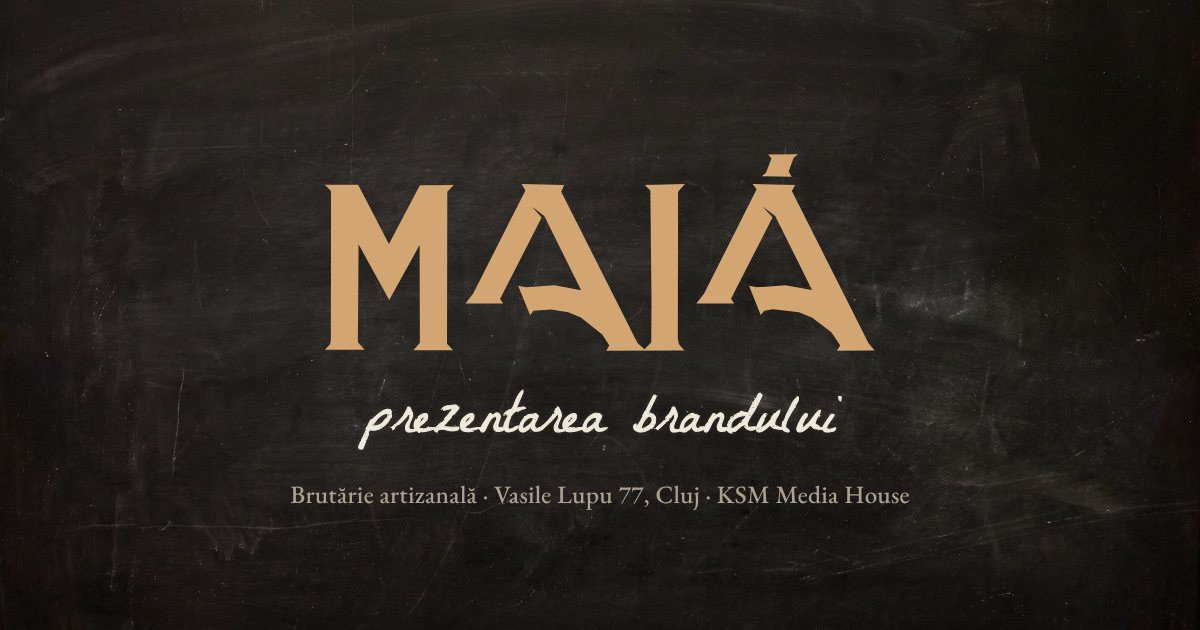
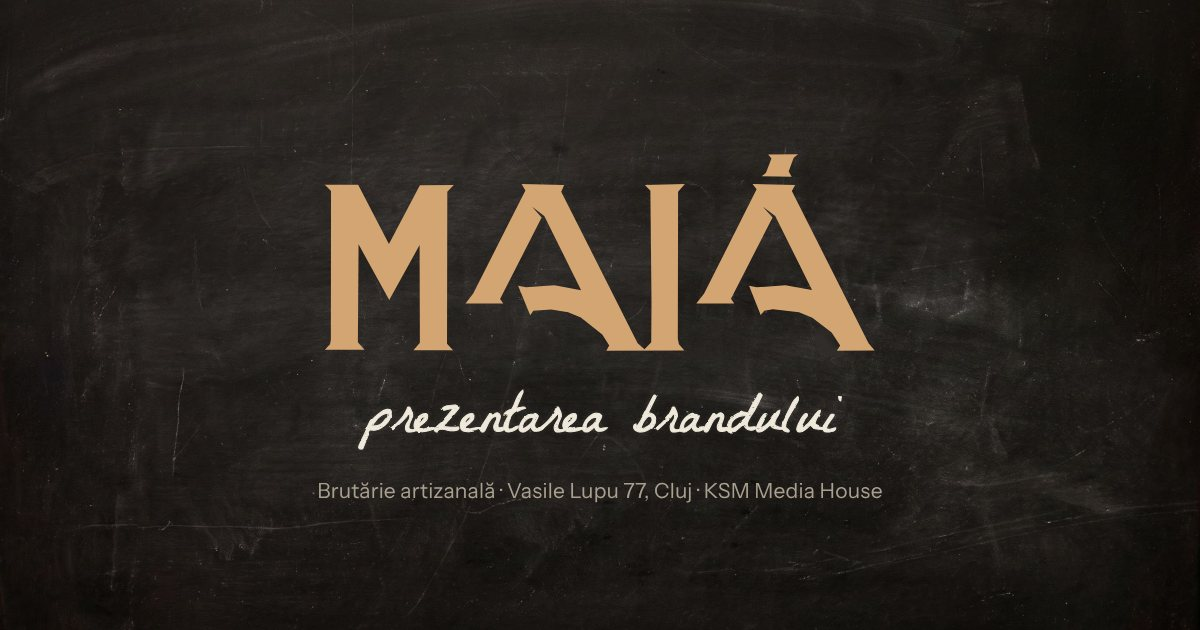
Maia brandbook: capitol Aplicații; thumbnailuri cu Instrument Sans
Claude-Session: https://claude.ai/code/session_01892xonWbYHQNDi6Rf6YRov

Changed region(s): [[0.2467, 0.754, 0.7708, 0.8143]]

diff --git a/maia/brandbook/index.html b/maia/brandbook/index.html
@@ -251,6 +251,58 @@ td{font-variant-numeric:tabular-nums}
 @media(max-width:860px){.voice{grid-template-columns:minmax(0,1fr)}}
 .lbl{font-size:14px;color:var(--mute);margin-bottom:10px}
 
+
+/* applications */
+.nb{white-space:nowrap}
+.apps-grid{display:grid;grid-template-columns:minmax(0,560px) minmax(0,1fr);gap:clamp(36px,6vw,96px);align-items:start}
+@media(max-width:900px){.apps-grid{grid-template-columns:minmax(0,1fr)}}
+.ig{display:grid;grid-template-columns:repeat(3,minmax(0,1fr));gap:4px;background:var(--creta)}
+.ig .t{position:relative;aspect-ratio:3/4;overflow:hidden;display:grid;place-items:center;text-align:center;padding:10%}
+.ig .t img{position:absolute;inset:0;width:100%;height:100%;object-fit:cover}
+.ig .t .lb{position:relative;font-family:var(--f-display);color:#F2ECE0;font-size:clamp(15px,1.6vw,21px);line-height:1.05;text-shadow:0 1px 14px rgba(0,0,0,.45)}
+.ig .t.dk{background:var(--tabla) url(https://bmarginean1.github.io/ksm-website/maia/img/tabla-bg.jpg) center/cover}
+.ig .t.lt{background:#E9E1D1;color:var(--tabla)}
+.ig .t.lt b{display:block;font:400 clamp(16px,1.7vw,22px)/1.05 var(--f-display)}
+.ig .t.lt small{display:block;margin-top:6px;font-size:12px;color:var(--mute-ink)}
+.ig .t .chalk{font-size:clamp(20px,2.2vw,30px)}
+.ig .t.dk img.logo{position:static;width:78%;height:auto;object-fit:contain}
+.ig .rc{position:absolute;top:8px;right:8px;width:14px;height:14px;border:1.5px solid #F2ECE0;border-radius:3px;z-index:2}
+.ig .rc::after{content:"";position:absolute;left:4px;top:2.5px;border-left:5px solid #F2ECE0;border-top:3.5px solid transparent;border-bottom:3.5px solid transparent}
+.phones{display:grid;grid-template-columns:repeat(3,minmax(0,1fr));gap:clamp(20px,4vw,64px);justify-items:center}
+.phones figure{width:100%;max-width:280px}
+.phones .ph{position:relative;aspect-ratio:9/16;border-radius:22px;overflow:hidden;background:var(--tabla);outline:1px solid var(--rule-ink,rgba(31,30,27,.16))}
+.phones .ph img.bg{position:absolute;inset:0;width:100%;height:100%;object-fit:cover}
+.phones .story img.bg{height:62%}
+.phones .story .pn{position:absolute;left:0;right:0;bottom:0;height:38%;background:var(--tabla) url(https://bmarginean1.github.io/ksm-website/maia/img/tabla-bg.jpg) center/cover;display:flex;flex-direction:column;align-items:center;justify-content:center;gap:6px;padding:0 8%;text-align:center;color:#F2ECE0}
+.phones .story .chalk{font-size:clamp(22px,2.2vw,30px)}
+.phones .story small{font-size:13px;color:#BDB4A3}
+.phones .story img.mk{width:30%;height:auto;margin-top:6px}
+.phones .cover .ov{position:absolute;left:8.33%;width:75%;top:25%;height:50%;display:grid;place-items:center;text-align:center}
+.phones .cover .ov b{font:400 clamp(26px,2.6vw,36px)/1.02 var(--f-display);color:#F2ECE0;text-shadow:0 2px 24px rgba(0,0,0,.55)}
+.phones .end{background:var(--tabla) url(https://bmarginean1.github.io/ksm-website/maia/img/tabla-bg.jpg) center/cover;display:flex;flex-direction:column;align-items:center;justify-content:center;gap:14px;color:#BDB4A3;font-size:13px}
+.phones .end img{width:66%;height:auto}
+.phones figcaption{margin-top:14px;font-size:15px}
+.phones figcaption span{display:block;color:var(--mute);font-size:13px}
+@media(max-width:760px){.phones{grid-template-columns:minmax(0,1fr)}}
+.pack{display:grid;grid-template-columns:repeat(4,minmax(0,1fr));gap:clamp(14px,2vw,24px)}
+@media(max-width:900px){.pack{grid-template-columns:repeat(2,minmax(0,1fr))}}
+.pack .it{aspect-ratio:4/5;display:grid;place-items:center;position:relative;overflow:hidden}
+.pack .bag{background:#DCCFB6}
+.pack .bag .b{width:62%;height:78%;background:#EDE5D6;position:relative;display:grid;place-items:center;box-shadow:inset 0 14px 0 #E2D8C5}
+.pack .bag .b::before{content:"";position:absolute;top:0;left:0;right:0;height:14px;background:repeating-linear-gradient(90deg,#E2D8C5 0 6px,#D8CCB6 6px 7px)}
+.pack .bag .b img{width:78%;height:auto}
+.pack .lab{background:#2B2823}
+.pack .lab .l{background:var(--tabla) url(https://bmarginean1.github.io/ksm-website/maia/img/tabla-bg.jpg) center/cover;width:74%;aspect-ratio:4/3;display:flex;flex-direction:column;justify-content:center;align-items:center;gap:4px;outline:1px solid rgba(242,236,224,.12)}
+.pack .lab .chalk{font-size:clamp(18px,1.8vw,24px)}
+.pack .stk{background:#EDE5D6}
+.pack .stk .s{width:60%;aspect-ratio:1;border-radius:50%;background:var(--tabla);display:grid;place-items:center;box-shadow:inset 0 0 0 5px var(--tabla),inset 0 0 0 6px rgba(211,165,115,.6)}
+.pack .stk .s img{width:66%;height:auto}
+.pack .wrp{background:#EDE5D6}
+.pack .wrp .pt{position:absolute;inset:0;display:grid;grid-template-columns:repeat(2,1fr);gap:0 22%;align-content:space-evenly;padding:0 14%;opacity:.14}
+.pack .wrp .pt img{width:100%;height:auto}
+.pack .wrp .pt img:nth-child(4n+3),.pack .wrp .pt img:nth-child(4n+4){transform:translateX(-30%)}
+.pack figcaption{margin-top:12px;font-size:15px}
+.pack figcaption span{display:block;color:var(--mute);font-size:13px}
 /* close */
 .close{background:var(--tabla) url(https://bmarginean1.github.io/ksm-website/maia/img/tabla-bg.jpg) center/cover;padding-block:clamp(90px,11vw,160px) calc(40px + env(safe-area-inset-bottom,0px))}
 .close .chalk{font-size:clamp(44px,5.4vw,80px)}
@@ -303,13 +355,13 @@ td{font-variant-numeric:tabular-nums}
 
 <header class="bar"><div class="wrap">
  <a class="mark" href="#top" aria-label="Maia, la început"><img src="https://bmarginean1.github.io/ksm-website/maia/img/maia.svg" alt="" width="815" height="297"></a>
- <nav aria-label="Principal"><a class="lnk" href="#logo">Logo</a><a class="lnk" href="#culoare">Culoare</a><a class="lnk" href="#litere">Litere</a><a class="lnk" href="#foto">Fotografie</a><a class="lnk" href="#voce">Voce</a><a class="btn" href="#cuprins" id="tocBtn" aria-controls="cuprins" aria-expanded="false">Cuprins</a></nav>
+ <nav aria-label="Principal"><a class="lnk" href="#logo">Logo</a><a class="lnk" href="#culoare">Culoare</a><a class="lnk" href="#litere">Litere</a><a class="lnk" href="#foto">Fotografie</a><a class="lnk" href="#aplicatii">Aplicații</a><a class="lnk" href="#voce">Voce</a><a class="btn" href="#cuprins" id="tocBtn" aria-controls="cuprins" aria-expanded="false">Cuprins</a></nav>
 </div></header>
 
 <nav class="toc" id="cuprins" aria-label="Cuprins"><div class="wrap">
  <a class="x btn" href="#top" id="tocX">Închide</a>
  <ol>
-  <li><a href="#logo">Logo</a></li><li><a href="#culoare">Culoare</a></li><li><a href="#litere">Litere</a></li><li><a href="#creta">Creta</a></li><li><a href="#foto">Fotografie</a></li><li><a href="#miscare">Mișcare</a></li><li><a href="#montaj">Montaj</a></li><li><a href="#postare">Postare</a></li><li><a href="#voce">Voce</a></li><li><a href="#reguli">Reguli fixe</a></li>
+  <li><a href="#logo">Logo</a></li><li><a href="#culoare">Culoare</a></li><li><a href="#litere">Litere</a></li><li><a href="#creta">Creta</a></li><li><a href="#foto">Fotografie</a></li><li><a href="#miscare">Mișcare</a></li><li><a href="#montaj">Montaj</a></li><li><a href="#postare">Postare</a></li><li><a href="#aplicatii">Aplicații</a></li><li><a href="#voce">Voce</a></li><li><a href="#reguli">Reguli fixe</a></li>
  </ol>
 </div></nav>
 
@@ -384,7 +436,7 @@ td{font-variant-numeric:tabular-nums}
   <div class="scale">
    <div><small>Titlu · Young Serif</small><span class="t1">Pâine Tartine</span></div>
    <div><small>Subtitlu · Young Serif</small><span class="t2">Cu semințe, din maia</span></div>
-   <div><small>Text · Instrument Sans</small><span class="t3">Scoatem prima tavă la 8:30. Îl iei cald sau nu-l mai prinzi.</span></div>
+   <div><small>Text · Instrument Sans</small><span class="t3">Scoatem prima tavă la 8:30. Îl iei cald sau <span class="nb">nu-l</span> mai prinzi.</span></div>
    <div><small>Notă · Instrument Sans</small><span class="t4">26 lei / 650 g. Nimic sub 13 px pe ecran.</span></div>
   </div>
  </div>
@@ -482,16 +534,59 @@ td{font-variant-numeric:tabular-nums}
  </div>
 </div></section>
 
-<section class="chap paper" id="voce" aria-labelledby="h-voce"><div class="wrap">
+<section class="chap paper" id="aplicatii" aria-labelledby="h-apl"><div class="wrap">
  <header class="ch-head">
   <p class="num">9</p>
+  <div class="ttl"><h2 id="h-apl" class="ext">Aplicații</h2><div class="chalk note wr" data-t="așa arată, pus în practică"><i>așa arată, pus în practică</i></div></div>
+  <p class="lead">Regulile de mai sus, puse pe telefon și pe tejghea. Toate pozele sunt de la prima filmare.</p>
+ </header>
+ <div class="apps-grid">
+  <div class="ig" role="img" aria-label="Grila de Instagram: nouă postări, alternând poze, tablă și hârtie">
+   <div class="t zoom"><img src="https://bmarginean1.github.io/ksm-website/maia/img/f-028.jpg" alt="" loading="lazy" style="object-position:40% center"><span class="rc"></span><span class="lb">Country Bread</span></div>
+   <div class="t lt"><div><b>Pâine Tartine</b><small>26 lei / 650 g</small></div></div>
+   <div class="t zoom"><img src="https://bmarginean1.github.io/ksm-website/maia/img/f-094.jpg" alt="" loading="lazy"></div>
+   <div class="t dk"><span class="chalk wr" data-t="ultima tavă"><i>ultima tavă</i></span></div>
+   <div class="t zoom"><img src="https://bmarginean1.github.io/ksm-website/maia/img/f-003.jpg" alt="" loading="lazy" style="object-position:55% center"><span class="rc"></span><span class="lb">Din cuptor</span></div>
+   <div class="t zoom"><img src="https://bmarginean1.github.io/ksm-website/maia/img/f-061.jpg" alt="" loading="lazy"></div>
+   <div class="t lt"><div><b>Îl iei cald sau <span class="nb">nu-l</span> mai prinzi.</b></div></div>
+   <div class="t zoom"><img src="https://bmarginean1.github.io/ksm-website/maia/img/f-092.jpg" alt="" loading="lazy"><span class="rc"></span><span class="lb">Croissant</span></div>
+   <div class="t dk"><img class="logo" src="https://bmarginean1.github.io/ksm-website/maia/img/maia.svg" alt="" loading="lazy"></div>
+  </div>
+  <div>
+   <h3 class="sub">Grila de Instagram</h3>
+   <dl class="rows "><div><dt>Ritm</dt><dd>Reel, foto, reel. Alternăm închis și deschis, ca să nu stea două întunecate una lângă alta.</dd></div><div><dt>Copertă</dt><dd>Un produs, cel mult trei cuvinte, în Young Serif, între y 480 și 1440.</dd></div><div><dt>Tablă</dt><dd>Un pătrat de tablă cu un rând de cretă la fiecare trei postări.</dd></div><div><dt>Hârtie</dt><dd>Un preț sau o frază scurtă, pe crem, fără poză.</dd></div><div><dt>Logo</dt><dd>MAIÁ apare singur cel mult o dată la nouă postări.</dd></div></dl>
+   <p class="cap">Semnul din colț marchează un reel.</p>
+  </div>
+ </div>
+ <div class="block">
+  <h3 class="sub">Story, copertă de reel, final</h3>
+  <div class="phones">
+   <figure><div class="ph story"><img class="bg" src="https://bmarginean1.github.io/ksm-website/maia/img/f-092.jpg" alt="Croissante pe blat" loading="lazy"><div class="pn"><span class="chalk wr" data-t="azi, din cuptor"><i>azi, din cuptor</i></span><small>Croissant · 17 lei</small><img class="mk" src="https://bmarginean1.github.io/ksm-website/maia/img/maia.svg" alt="" loading="lazy"></div></div><figcaption>Story zilnic<span>Poza sus, tabla jos: ce a ieșit și cât costă.</span></figcaption></figure>
+   <figure><div class="ph cover zoom"><img class="bg" src="https://bmarginean1.github.io/ksm-website/maia/img/f-078.jpg" alt="Aluatul răsturnat pe blat" loading="lazy"><div class="ov"><b>Ultima tavă</b></div></div><figcaption>Copertă de reel<span>Cel mai bun cadru, un titlu, în zona sigură.</span></figcaption></figure>
+   <figure><div class="ph end"><img src="https://bmarginean1.github.io/ksm-website/maia/img/maia.svg" alt="MAIÁ auriu pe tablă" loading="lazy"><span>Vasile Lupu 77, Cluj</span></div><figcaption>Cadrul de final<span>O secundă și jumătate, la fiecare reel.</span></figcaption></figure>
+  </div>
+ </div>
+ <div class="block">
+  <h3 class="sub">Ambalaj și tejghea</h3>
+  <div class="pack">
+   <figure><div class="it bag"><div class="b"><img src="https://bmarginean1.github.io/ksm-website/maia/img/logo-complet.svg" alt="Logo-ul complet pe punga de hârtie" loading="lazy"></div></div><figcaption>Punga<span>Logo-ul complet, în culorile originale.</span></figcaption></figure>
+   <figure><div class="it lab"><div class="l"><span class="chalk wr" data-t="Pâine Tartine"><i>Pâine Tartine</i></span><span class="chalk wr" data-t="26 lei / 650 g"><i>26 lei / 650 g</i></span></div></div><figcaption>Eticheta de preț<span>Tablă mică, scrisă de mână, ca pe lăzi.</span></figcaption></figure>
+   <figure><div class="it stk"><div class="s"><img src="https://bmarginean1.github.io/ksm-website/maia/img/maia.svg" alt="Sticker rotund MAIÁ" loading="lazy"></div></div><figcaption>Sticker<span>Rotund, 5 cm, închide punga.</span></figcaption></figure>
+   <figure><div class="it wrp"><div class="pt"><img src="https://bmarginean1.github.io/ksm-website/maia/img/maia-negru.svg" alt="" loading="lazy"><img src="https://bmarginean1.github.io/ksm-website/maia/img/maia-negru.svg" alt="" loading="lazy"><img src="https://bmarginean1.github.io/ksm-website/maia/img/maia-negru.svg" alt="" loading="lazy"><img src="https://bmarginean1.github.io/ksm-website/maia/img/maia-negru.svg" alt="" loading="lazy"><img src="https://bmarginean1.github.io/ksm-website/maia/img/maia-negru.svg" alt="" loading="lazy"><img src="https://bmarginean1.github.io/ksm-website/maia/img/maia-negru.svg" alt="" loading="lazy"><img src="https://bmarginean1.github.io/ksm-website/maia/img/maia-negru.svg" alt="" loading="lazy"><img src="https://bmarginean1.github.io/ksm-website/maia/img/maia-negru.svg" alt="" loading="lazy"></div></div><figcaption>Hârtia de împachetat<span>MAIÁ negru, repetat rar, aproape șters.</span></figcaption></figure>
+  </div>
+ </div>
+</div></section>
+
+<section class="chap" id="voce" aria-labelledby="h-voce"><div class="wrap">
+ <header class="ch-head">
+  <p class="num">10</p>
   <div class="ttl"><h2 id="h-voce" class="ext">Voce</h2><div class="chalk note wr" data-t="ca omul de la tejghea"><i>ca omul de la tejghea</i></div></div>
   <p class="lead">Ce e, cât costă, când iese. Română cu diacritice, produsele în engleză, fără semne de exclamare.</p>
  </header>
  <div class="voice">
   <div>
    <p class="lbl">Așa</p>
-   <p class="say-yes ext">Îl iei cald sau nu-l mai prinzi.</p>
+   <p class="say-yes ext">Îl iei cald sau <span class="nb">nu-l</span> mai prinzi.</p>
    <p class="say-yes2">Pain au Chocolat cu unt adevărat. 16 lei.</p>
    <p class="lbl" style="margin-top:56px">Nu așa</p>
    <p class="say-no">Descoperă experiența unică a croissantului nostru artizanal, pregătit cu pasiune!</p>
@@ -503,9 +598,9 @@ td{font-variant-numeric:tabular-nums}
  </div>
 </div></section>
 
-<section class="chap" id="reguli" aria-labelledby="h-reg"><div class="wrap">
+<section class="chap paper" id="reguli" aria-labelledby="h-reg"><div class="wrap">
  <header class="ch-head">
-  <p class="num">10</p>
+  <p class="num">11</p>
   <div class="ttl"><h2 id="h-reg" class="ext">Reguli fixe</h2><div class="chalk note wr" data-t="ce nu se schimbă"><i>ce nu se schimbă</i></div></div>
   <p class="lead">Orice abatere de la ele se discută întâi.</p>
  </header>
